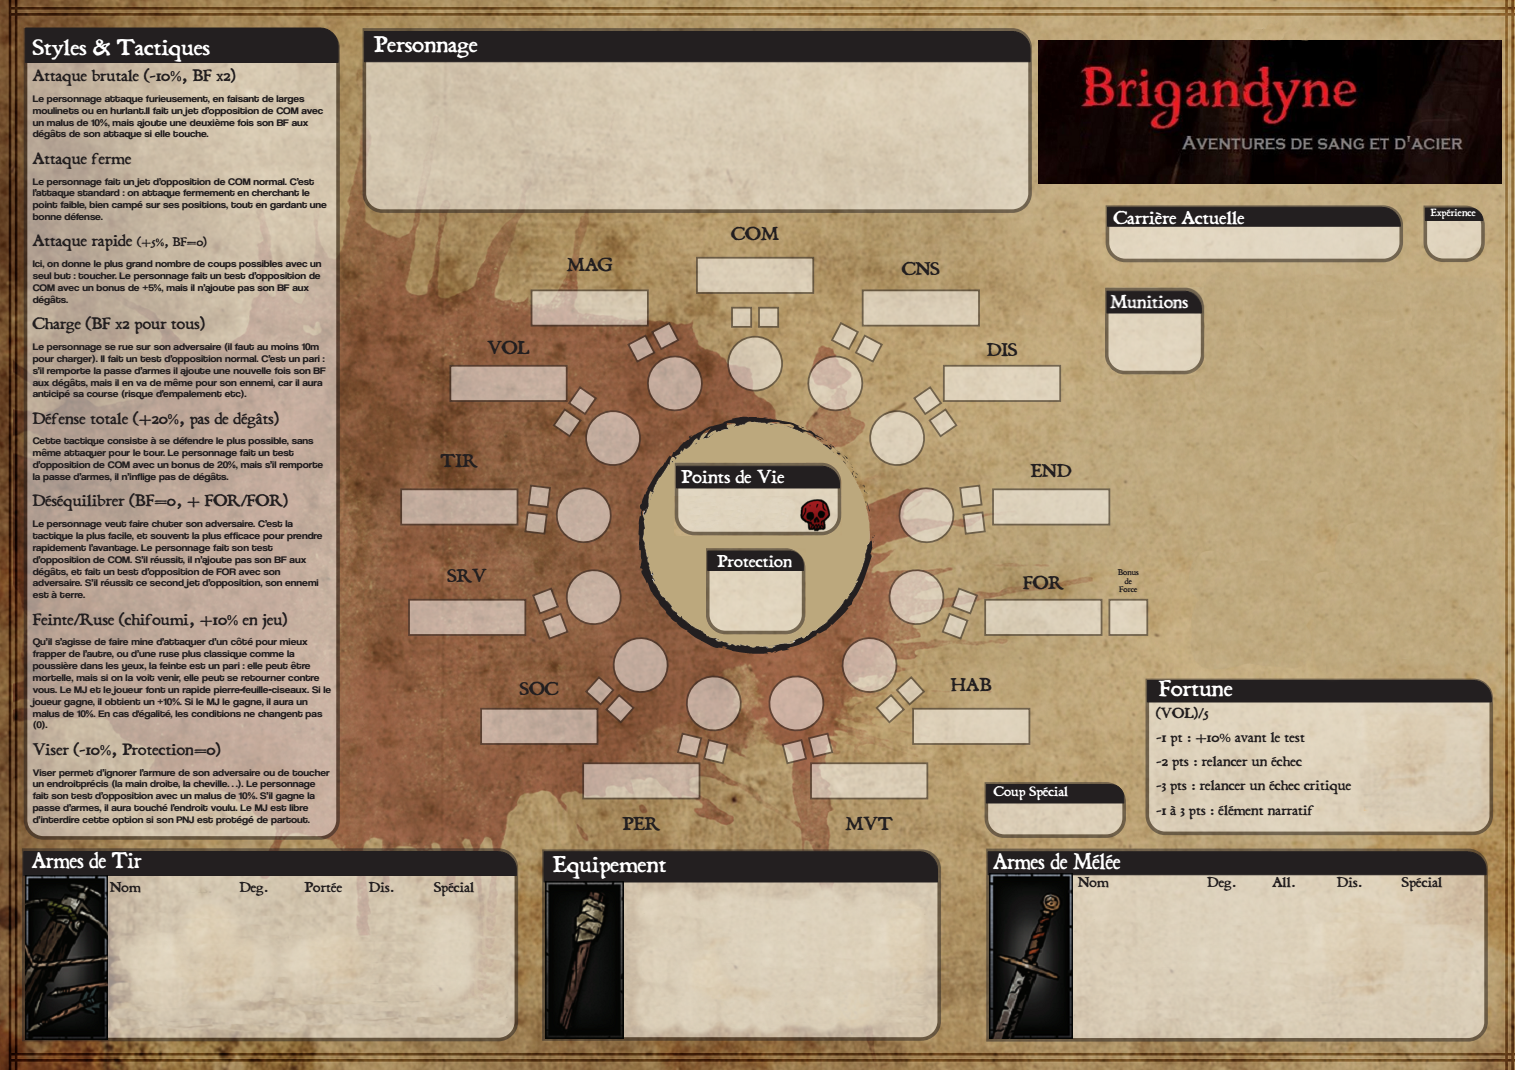
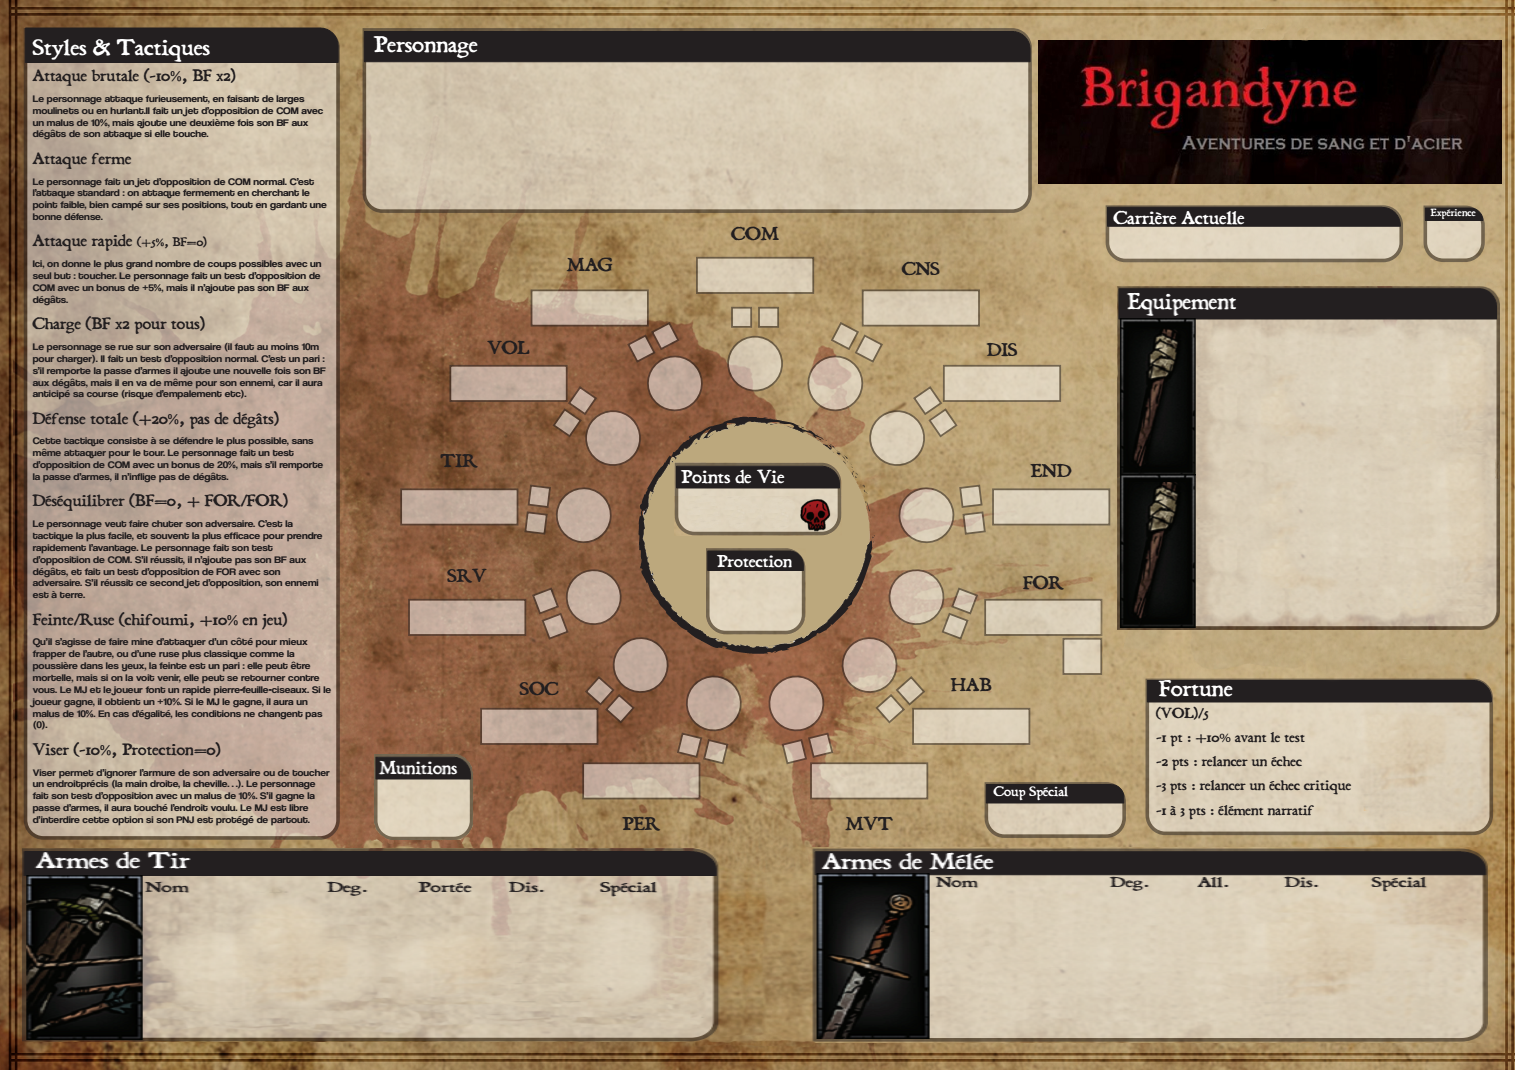
brig v0.1a

diff --git a/Brigandyne/brigandyne.css b/Brigandyne/brigandyne.css
@@ -31,13 +31,13 @@ div{
     /* border: 1px solid red; */
 }
 div.sheet-bgmain{
-    width: 1100px;
-    max-width: 1100px;
-    height: 778px;
-    max-height: 778px;
+    width: 1280px;
+    max-width: 1280px;
+    height: 905px;
+    max-height: 905px;
     text-align: center;
     background-color : white;
-    background-image: url('https://raw.githubusercontent.com/NathaTerrien/roll20-wip/master/Mordiou/mordiou_bg_v3.jpg');
+    background-image: url('https://raw.githubusercontent.com/NathaTerrien/roll20-wip/master/Brigandyne/brigandyne_fond_v1_1280px.jpg');
     background-repeat:no-repeat;
     background-position:top left;
     background-size: auto;
@@ -53,7 +53,7 @@ div.sheet-rel{
     display: inline-block;
 }
 input, textarea{
-    background-color: transparent;
+    background-color: rgba(224,211,186,0.2);
     display: inline-block;
     padding: none;
     margin: none;
@@ -62,21 +62,25 @@ input, textarea{
     border: none;
     box-shadow: none;
     resize:none;
-    color: #257ABA;
+    color: #231F20;
     z-index: 2;
     border-radius: 0;
 }
 input:focus, input:hover, textarea:focus, textarea:hover{
-    box-shadow: inset 0px 1px 1px rgba(255,210,3,0.01),0 0 6px rgba(255,210,3,0.5);
-    background-color: rgba(255,210,3,0.2);
+    box-shadow: inset 0px 1px 1px rgba(134,112,77,0.01),0 0 6px rgba(134,112,77,0.5);
+    background-color:  #E0D3BA;
 }
 textarea{
     padding: 1px 2px 0px 2px;
-    border-left: 1px dotted black;
-    border-right: 1px dotted black;
-    border-bottom: 1px dotted black; /* #B1793F; */
+    border-left: 1px dotted #231F20;
+    border-right: 1px dotted #231F20;
+    border-bottom: 1px dotted #231F20;
     border-radius: 4px;
 }
 input[type="text"]{
     padding: 0px 0px 0px 2px;
+}
+input[type="text"].sheet-inptxt1{
+    font-weight: bold;
+    font-size: 22px;
 }

diff --git a/Brigandyne/brigandyne.htm b/Brigandyne/brigandyne.htm
@@ -1,0 +1,8 @@
+<div class="sheet-bgmain">
+    <div class="abs" style="left: 315px;top:60px;text-align: left;">
+        <input type="text" name="attr_character_name" class="inptxt1" style="width: 280px;" placeholder="Nom du personnage" />
+    </div>
+    <div class="abs" style="left: 315px;top:80px;text-align: left;">
+        <textarea name="attr_pjdescription" style="width: 540px;height: 82px;margin-top: 10px;"></textarea>
+    </div>
+</div>
